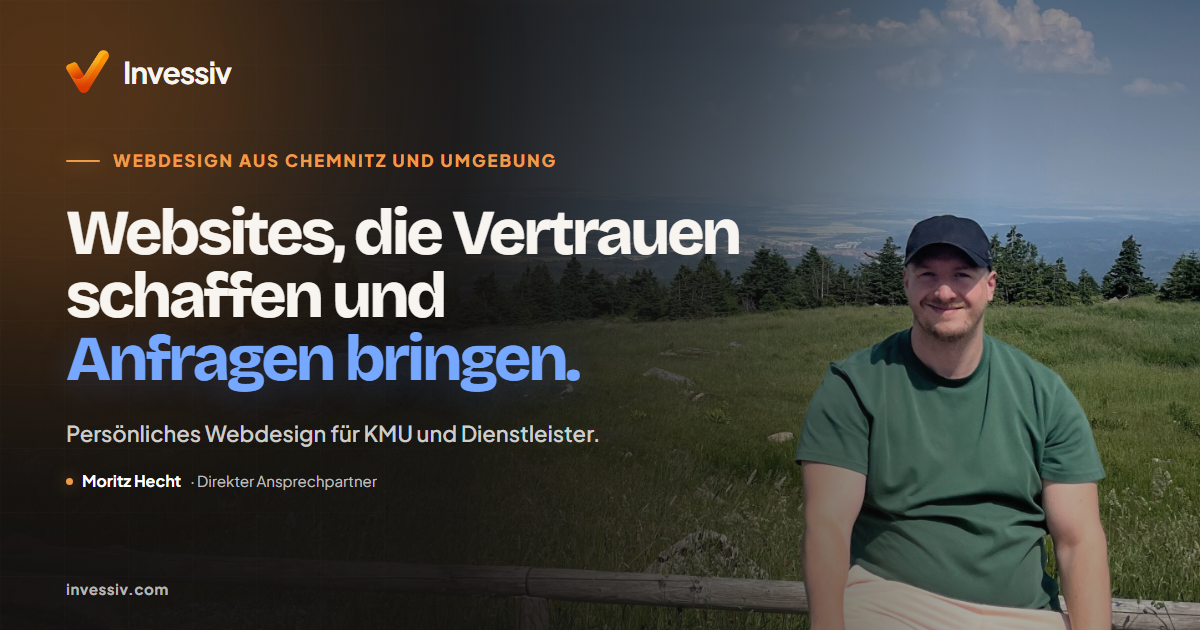
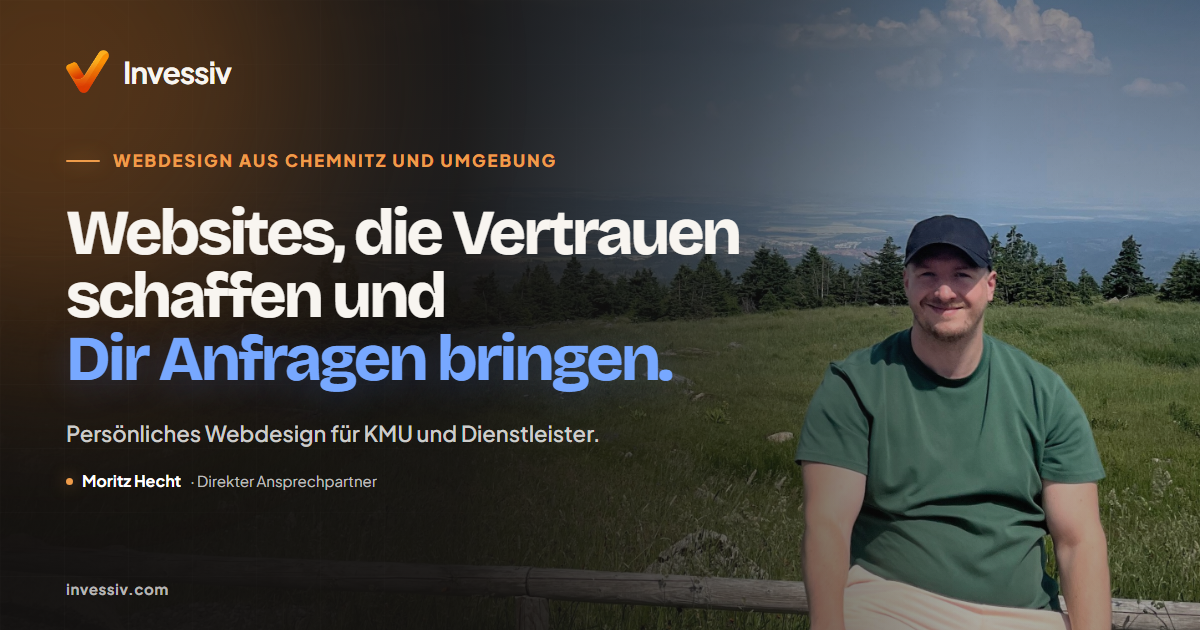
small fixes

Changed region(s): [[0.0308, 0.5127, 0.555, 0.6333]]

diff --git a/apps/web/src/app/[locale]/(marketing)/page.test.tsx b/apps/web/src/app/[locale]/(marketing)/page.test.tsx
@@ -35,7 +35,7 @@ describe("LocalePage metadata", () => {
     expect(metadata.openGraph?.url).toBe("https://www.invessiv.com/de");
     expect(metadata.openGraph?.images).toEqual([
       {
-        alt: "Moritz Hecht vor einer Berglandschaft mit der Aussage: Websites, die Vertrauen schaffen und Anfragen bringen.",
+        alt: "Moritz Hecht vor einer Berglandschaft mit der Aussage: Websites, die Vertrauen schaffen und Dir Anfragen bringen.",
         height: 630,
         url: "https://www.invessiv.com/og/home-de.png",
         width: 1200,
@@ -43,7 +43,7 @@ describe("LocalePage metadata", () => {
     ]);
     expect(metadata.twitter?.images).toEqual([
       {
-        alt: "Moritz Hecht vor einer Berglandschaft mit der Aussage: Websites, die Vertrauen schaffen und Anfragen bringen.",
+        alt: "Moritz Hecht vor einer Berglandschaft mit der Aussage: Websites, die Vertrauen schaffen und Dir Anfragen bringen.",
         url: "https://www.invessiv.com/og/home-de.png",
       },
     ]);
@@ -57,7 +57,7 @@ describe("LocalePage metadata", () => {
     expect(metadata.openGraph?.url).toBe("https://www.invessiv.com/en");
     expect(metadata.openGraph?.images).toEqual([
       {
-        alt: "Moritz Hecht in front of a mountain landscape with the statement: Websites that build trust and bring in inquiries.",
+        alt: "Moritz Hecht in front of a mountain landscape with the statement: Websites that build trust and bring you inquiries.",
         height: 630,
         url: "https://www.invessiv.com/og/home-en.png",
         width: 1200,
@@ -65,7 +65,7 @@ describe("LocalePage metadata", () => {
     ]);
     expect(metadata.twitter?.images).toEqual([
       {
-        alt: "Moritz Hecht in front of a mountain landscape with the statement: Websites that build trust and bring in inquiries.",
+        alt: "Moritz Hecht in front of a mountain landscape with the statement: Websites that build trust and bring you inquiries.",
         url: "https://www.invessiv.com/og/home-en.png",
       },
     ]);

diff --git a/apps/web/src/i18n/dictionaries/marketing/home.test.ts b/apps/web/src/i18n/dictionaries/marketing/home.test.ts
@@ -320,7 +320,7 @@ describe("home dictionary", () => {
 
     expect(deHero).toEqual({
       id: "hero",
-      title: "Websites, die Vertrauen schaffen und Anfragen bringen.",
+      title: "Websites, die Vertrauen schaffen und Dir Anfragen bringen.",
       description:
         "Ich bin Moritz Hecht und entwickle verkaufspsychologisch durchdachte Websites, die dein Angebot verständlich vermitteln und Interessenten gezielt zur Anfrage führen.",
     });
@@ -338,7 +338,7 @@ describe("home dictionary", () => {
 
     expect(enHero).toEqual({
       id: "hero",
-      title: "Websites that build trust and bring in inquiries.",
+      title: "Websites that build trust and bring you inquiries.",
       description:
         "I’m Moritz Hecht, and I create conversion-focused websites that communicate your offer clearly and guide prospects toward an inquiry.",
     });

diff --git a/apps/web/src/i18n/dictionaries/marketing/home.ts b/apps/web/src/i18n/dictionaries/marketing/home.ts
@@ -230,12 +230,12 @@ const HOME_SECTIONS = [
     id: "hero",
     copy: {
       de: {
-        title: "Websites, die Vertrauen schaffen und Anfragen bringen.",
+        title: "Websites, die Vertrauen schaffen und Dir Anfragen bringen.",
         description:
           "Ich bin Moritz Hecht und entwickle verkaufspsychologisch durchdachte Websites, die dein Angebot verständlich vermitteln und Interessenten gezielt zur Anfrage führen.",
       },
       en: {
-        title: "Websites that build trust and bring in inquiries.",
+        title: "Websites that build trust and bring you inquiries.",
         description:
           "I’m Moritz Hecht, and I create conversion-focused websites that communicate your offer clearly and guide prospects toward an inquiry.",
       },

diff --git a/apps/web/src/components/marketing/home/sections/hero-section/hero-section.test.tsx b/apps/web/src/components/marketing/home/sections/hero-section/hero-section.test.tsx
@@ -48,7 +48,7 @@ describe("HeroSection", () => {
         primaryCtaHref="#contact"
         secondaryCtaAnalyticsTarget="services"
         secondaryCtaHref="#services"
-        title="Websites, die Vertrauen schaffen und Anfragen bringen."
+        title="Websites, die Vertrauen schaffen und Dir Anfragen bringen."
         trackingLocation="hero"
         visualSlot={
           <span
@@ -61,7 +61,7 @@ describe("HeroSection", () => {
 
     const heroHeading = screen.getByRole("heading", { level: 1 });
     expect(heroHeading.textContent).toBe(
-      "Websites, die Vertrauen schaffen und Anfragen bringen.",
+      "Websites, die Vertrauen schaffen und Dir Anfragen bringen.",
     );
     expect(
       screen

diff --git a/apps/web/src/components/marketing/home/sections/problem-section/problem-section.module.css b/apps/web/src/components/marketing/home/sections/problem-section/problem-section.module.css
@@ -144,9 +144,10 @@
 }
 
 .label {
-  font-size: var(--font-size-body-lg);
-  font-weight: 600;
-  line-height: 1.3;
+  font-size: clamp(1.3rem, 1.08rem + 0.75vw, 1.7rem);
+  font-weight: 650;
+  line-height: 1.18;
+  letter-spacing: -0.015em;
 }
 
 .note {
@@ -304,6 +305,13 @@
 
   .problem[data-visible="true"] .leader {
     transform: scaleX(1);
+  }
+}
+
+@media (min-width: 1120px) {
+  .problem:nth-child(5) .label {
+    font-size: clamp(1.18rem, 0.94rem + 0.5vw, 1.42rem);
+    white-space: nowrap;
   }
 }
 

diff --git a/apps/web/src/components/marketing/home/sections/hero-section/hero-section.module.css b/apps/web/src/components/marketing/home/sections/hero-section/hero-section.module.css
@@ -72,7 +72,7 @@
   font-size: clamp(2.7rem, 5.45vw, 4.25rem);
   font-weight: 700;
   line-height: 0.98;
-  letter-spacing: -0.048em;
+  letter-spacing: -0.01em;
   text-wrap: balance;
   position: relative;
   text-shadow: 0 8px 26px rgba(8, 12, 24, 0.36);
@@ -104,6 +104,7 @@
   color: color-mix(in srgb, var(--color-text-muted) 70%, var(--color-text) 30%);
   font-size: var(--font-size-body-lg);
   line-height: 1.66;
+  letter-spacing: 0.015em;
   text-wrap: pretty;
 }
 

diff --git a/apps/web/src/components/marketing/home/sections/process-section/process-section.module.css b/apps/web/src/components/marketing/home/sections/process-section/process-section.module.css
@@ -1,7 +1,10 @@
 .section {
   display: grid;
   gap: clamp(1.1rem, 2vw, 1.6rem);
-  margin-top: 0;
+}
+
+.section.section {
+  margin-top: calc(var(--section-space) + clamp(5rem, 7vw, 8rem));
 }
 
 .header {

diff --git a/apps/web/src/config/navigation/home.ts b/apps/web/src/config/navigation/home.ts
@@ -64,7 +64,7 @@ export const PRIMARY_NAVIGATION_SECTION_IDS = [
   "problem",
   "services",
   "process",
-  "faq",
+  "references",
 ] as const;
 
 export const PRIMARY_NAVIGATION: NavigationItem[] =

diff --git a/apps/web/src/components/marketing/home/sections/references-section/references-section.module.css b/apps/web/src/components/marketing/home/sections/references-section/references-section.module.css
@@ -5,6 +5,10 @@
   overflow: visible;
 }
 
+.section.section {
+  margin-top: calc(var(--section-space) + clamp(5rem, 7vw, 8rem));
+}
+
 @media (max-width: 759px) {
   .section {
     gap: 1.35rem;
